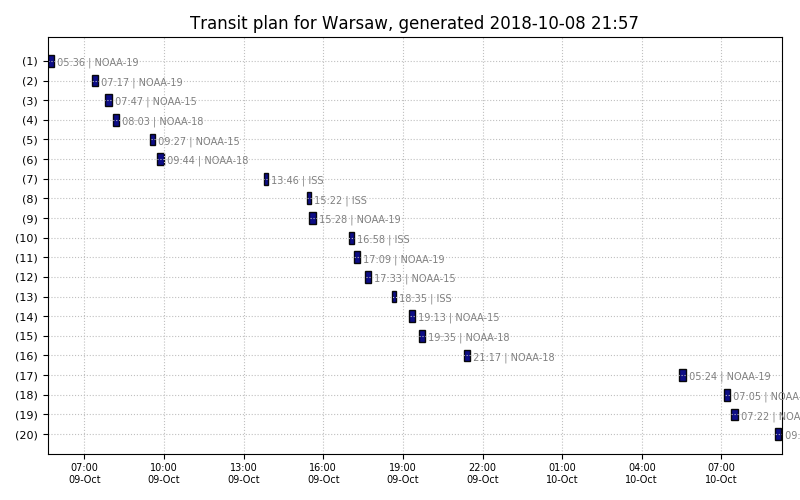
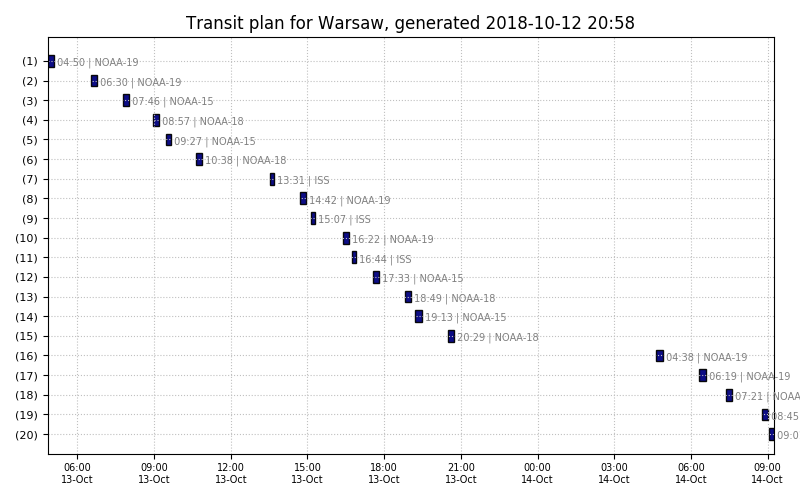
logging to file

diff --git a/var/nextpass.html b/var/nextpass.html
@@ -1,91 +1,92 @@
 <table>
 <tr><td>#</td><td>satellite</td><td>start</td><td>duration</td><td>peak</td><td>azimuth</td><td>freq</td><td>process with</td><tr>
-<tr><td>1</td><td>NOAA-19</td><td>2018-10-09 05:36</td><td>15:10</td><td>88°</td><td>288° (W←)</td><td>137100000Hz</td><td>modules/noaa/noaa.sh</td><tr>
-<tr><td>2</td><td>NOAA-19</td><td>2018-10-09 07:17</td><td>13:04</td><td>20°</td><td>308° (WNW←↖)</td><td>137100000Hz</td><td>modules/noaa/noaa.sh</td><tr>
-<tr><td>3</td><td>NOAA-15</td><td>2018-10-09 07:47</td><td>14:39</td><td>76°</td><td>104° (E→)</td><td>137620000Hz</td><td>modules/noaa/noaa.sh</td><tr>
-<tr><td>4</td><td>NOAA-18</td><td>2018-10-09 08:03</td><td>13:41</td><td>23°</td><td>91° (E→)</td><td>137912500Hz</td><td>modules/noaa/noaa.sh</td><tr>
-<tr><td>5</td><td>NOAA-15</td><td>2018-10-09 09:27</td><td>12:58</td><td>22°</td><td>304° (WNW←↖)</td><td>137620000Hz</td><td>modules/noaa/noaa.sh</td><tr>
-<tr><td>6</td><td>NOAA-18</td><td>2018-10-09 09:44</td><td>14:54</td><td>66°</td><td>291° (W←)</td><td>137912500Hz</td><td>modules/noaa/noaa.sh</td><tr>
-<tr><td>7</td><td>ISS</td><td>2018-10-09 13:46</td><td>09:15</td><td>21°</td><td>146° (SE↘)</td><td>143625000Hz</td><td>modules/iss/iss_voice.sh</td><tr>
-<tr><td>8</td><td>ISS</td><td>2018-10-09 15:22</td><td>10:03</td><td>61°</td><td>165° (SSE↓↘)</td><td>143625000Hz</td><td>modules/iss/iss_voice.sh</td><tr>
-<tr><td>9</td><td>NOAA-19</td><td>2018-10-09 15:28</td><td>14:47</td><td>55°</td><td>66° (NE↗)</td><td>137100000Hz</td><td>modules/noaa/noaa.sh</td><tr>
-<tr><td>10</td><td>ISS</td><td>2018-10-09 16:58</td><td>10:07</td><td>78°</td><td>185° (S↓)</td><td>143625000Hz</td><td>modules/iss/iss_voice.sh</td><tr>
-<tr><td>11</td><td>NOAA-19</td><td>2018-10-09 17:09</td><td>14:07</td><td>28°</td><td>266° (WSW←↙)</td><td>137100000Hz</td><td>modules/noaa/noaa.sh</td><tr>
-<tr><td>12</td><td>NOAA-15</td><td>2018-10-09 17:33</td><td>14:01</td><td>38°</td><td>62° (NE↗)</td><td>137620000Hz</td><td>modules/noaa/noaa.sh</td><tr>
-<tr><td>13</td><td>ISS</td><td>2018-10-09 18:35</td><td>09:48</td><td>36°</td><td>205° (SSW↓↙)</td><td>143625000Hz</td><td>modules/iss/iss_voice.sh</td><tr>
-<tr><td>14</td><td>NOAA-15</td><td>2018-10-09 19:13</td><td>14:17</td><td>40°</td><td>262° (WSW←↙)</td><td>137620000Hz</td><td>modules/noaa/noaa.sh</td><tr>
-<tr><td>15</td><td>NOAA-18</td><td>2018-10-09 19:35</td><td>15:06</td><td>74°</td><td>69° (ENE→↗)</td><td>137912500Hz</td><td>modules/noaa/noaa.sh</td><tr>
-<tr><td>16</td><td>NOAA-18</td><td>2018-10-09 21:17</td><td>13:36</td><td>21°</td><td>269° (WSW←↙)</td><td>137912500Hz</td><td>modules/noaa/noaa.sh</td><tr>
-<tr><td>17</td><td>NOAA-19</td><td>2018-10-10 05:24</td><td>15:11</td><td>77°</td><td>105° (E→)</td><td>137100000Hz</td><td>modules/noaa/noaa.sh</td><tr>
-<tr><td>18</td><td>NOAA-19</td><td>2018-10-10 07:05</td><td>13:29</td><td>23°</td><td>305° (WNW←↖)</td><td>137100000Hz</td><td>modules/noaa/noaa.sh</td><tr>
-<tr><td>19</td><td>NOAA-15</td><td>2018-10-10 07:22</td><td>14:28</td><td>49°</td><td>99° (E→)</td><td>137620000Hz</td><td>modules/noaa/noaa.sh</td><tr>
-<tr><td>20</td><td>NOAA-15</td><td>2018-10-10 09:02</td><td>13:44</td><td>32°</td><td>299° (WNW←↖)</td><td>137620000Hz</td><td>modules/noaa/noaa.sh</td><tr>
-<tr><td>21</td><td>NOAA-18</td><td>2018-10-10 09:32</td><td>15:00</td><td>80°</td><td>288° (W←)</td><td>137912500Hz</td><td>modules/noaa/noaa.sh</td><tr>
-<tr><td>22</td><td>ISS</td><td>2018-10-10 14:30</td><td>10:03</td><td>47°</td><td>159° (SSE↓↘)</td><td>143625000Hz</td><td>modules/iss/iss_voice.sh</td><tr>
-<tr><td>23</td><td>NOAA-19</td><td>2018-10-10 15:17</td><td>14:29</td><td>46°</td><td>63° (NE↗)</td><td>137100000Hz</td><td>modules/noaa/noaa.sh</td><tr>
-<tr><td>24</td><td>ISS</td><td>2018-10-10 16:07</td><td>10:08</td><td>81°</td><td>179° (SSE↓↘)</td><td>143625000Hz</td><td>modules/iss/iss_voice.sh</td><tr>
-<tr><td>25</td><td>NOAA-19</td><td>2018-10-10 16:58</td><td>14:26</td><td>34°</td><td>264° (WSW←↙)</td><td>137100000Hz</td><td>modules/noaa/noaa.sh</td><tr>
-<tr><td>26</td><td>NOAA-15</td><td>2018-10-10 17:09</td><td>13:23</td><td>26°</td><td>57° (NE↗)</td><td>137620000Hz</td><td>modules/noaa/noaa.sh</td><tr>
-<tr><td>27</td><td>ISS</td><td>2018-10-10 17:43</td><td>10:00</td><td>49°</td><td>199° (S↓)</td><td>143625000Hz</td><td>modules/iss/iss_voice.sh</td><tr>
-<tr><td>28</td><td>NOAA-15</td><td>2018-10-10 18:48</td><td>14:37</td><td>63°</td><td>257° (WSW←↙)</td><td>137620000Hz</td><td>modules/noaa/noaa.sh</td><tr>
-<tr><td>29</td><td>NOAA-18</td><td>2018-10-10 19:24</td><td>14:53</td><td>61°</td><td>67° (NE↗)</td><td>137912500Hz</td><td>modules/noaa/noaa.sh</td><tr>
-<tr><td>30</td><td>NOAA-18</td><td>2018-10-10 21:05</td><td>13:58</td><td>26°</td><td>267° (WSW←↙)</td><td>137912500Hz</td><td>modules/noaa/noaa.sh</td><tr>
-<tr><td>31</td><td>NOAA-19</td><td>2018-10-11 05:13</td><td>15:08</td><td>63°</td><td>103° (E→)</td><td>137100000Hz</td><td>modules/noaa/noaa.sh</td><tr>
-<tr><td>32</td><td>NOAA-19</td><td>2018-10-11 06:54</td><td>13:56</td><td>27°</td><td>303° (WNW←↖)</td><td>137100000Hz</td><td>modules/noaa/noaa.sh</td><tr>
-<tr><td>33</td><td>NOAA-15</td><td>2018-10-11 06:57</td><td>13:56</td><td>32°</td><td>94° (E→)</td><td>137620000Hz</td><td>modules/noaa/noaa.sh</td><tr>
-<tr><td>34</td><td>NOAA-15</td><td>2018-10-11 08:37</td><td>14:16</td><td>47°</td><td>294° (WNW←↖)</td><td>137620000Hz</td><td>modules/noaa/noaa.sh</td><tr>
-<tr><td>35</td><td>NOAA-18</td><td>2018-10-11 09:20</td><td>15:01</td><td>84°</td><td>106° (E→)</td><td>137912500Hz</td><td>modules/noaa/noaa.sh</td><tr>
-<tr><td>36</td><td>NOAA-18</td><td>2018-10-11 11:01</td><td>13:07</td><td>21°</td><td>307° (WNW←↖)</td><td>137912500Hz</td><td>modules/noaa/noaa.sh</td><tr>
-<tr><td>37</td><td>ISS</td><td>2018-10-11 13:38</td><td>09:46</td><td>34°</td><td>154° (SE↘)</td><td>143625000Hz</td><td>modules/iss/iss_voice.sh</td><tr>
-<tr><td>38</td><td>ISS</td><td>2018-10-11 15:15</td><td>10:07</td><td>77°</td><td>173° (SSE↓↘)</td><td>143625000Hz</td><td>modules/iss/iss_voice.sh</td><tr>
-<tr><td>39</td><td>ISS</td><td>2018-10-11 16:51</td><td>10:04</td><td>63°</td><td>193° (S↓)</td><td>143625000Hz</td><td>modules/iss/iss_voice.sh</td><tr>
-<tr><td>40</td><td>ISS</td><td>2018-10-11 18:28</td><td>09:18</td><td>22°</td><td>212° (SSW↓↙)</td><td>143625000Hz</td><td>modules/iss/iss_voice.sh</td><tr>
-<tr><td>41</td><td>NOAA-18</td><td>2018-10-11 19:12</td><td>14:48</td><td>50°</td><td>65° (NE↗)</td><td>137912500Hz</td><td>modules/noaa/noaa.sh</td><tr>
-<tr><td>42</td><td>NOAA-18</td><td>2018-10-11 20:53</td><td>14:24</td><td>31°</td><td>265° (WSW←↙)</td><td>137912500Hz</td><td>modules/noaa/noaa.sh</td><tr>
-<tr><td>43</td><td>NOAA-19</td><td>2018-10-12 05:01</td><td>15:02</td><td>52°</td><td>100° (E→)</td><td>137100000Hz</td><td>modules/noaa/noaa.sh</td><tr>
-<tr><td>44</td><td>NOAA-15</td><td>2018-10-12 06:32</td><td>13:06</td><td>21°</td><td>89° (ENE→↗)</td><td>137620000Hz</td><td>modules/noaa/noaa.sh</td><tr>
-<tr><td>45</td><td>NOAA-19</td><td>2018-10-12 06:42</td><td>14:13</td><td>32°</td><td>300° (WNW←↖)</td><td>137100000Hz</td><td>modules/noaa/noaa.sh</td><tr>
-<tr><td>46</td><td>NOAA-15</td><td>2018-10-12 08:12</td><td>14:34</td><td>72°</td><td>289° (W←)</td><td>137620000Hz</td><td>modules/noaa/noaa.sh</td><tr>
-<tr><td>47</td><td>NOAA-18</td><td>2018-10-12 09:09</td><td>15:00</td><td>70°</td><td>104° (E→)</td><td>137912500Hz</td><td>modules/noaa/noaa.sh</td><tr>
-<tr><td>48</td><td>NOAA-18</td><td>2018-10-12 10:50</td><td>13:31</td><td>25°</td><td>304° (WNW←↖)</td><td>137912500Hz</td><td>modules/noaa/noaa.sh</td><tr>
-<tr><td>49</td><td>ISS</td><td>2018-10-12 12:47</td><td>09:33</td><td>24°</td><td>148° (SE↘)</td><td>143625000Hz</td><td>modules/iss/iss_voice.sh</td><tr>
-<tr><td>50</td><td>ISS</td><td>2018-10-12 14:23</td><td>10:05</td><td>67°</td><td>167° (SSE↓↘)</td><td>143625000Hz</td><td>modules/iss/iss_voice.sh</td><tr>
-<tr><td>51</td><td>NOAA-19</td><td>2018-10-12 14:54</td><td>14:06</td><td>32°</td><td>59° (NE↗)</td><td>137100000Hz</td><td>modules/noaa/noaa.sh</td><tr>
-<tr><td>52</td><td>ISS</td><td>2018-10-12 15:59</td><td>10:06</td><td>75°</td><td>187° (S↓)</td><td>143625000Hz</td><td>modules/iss/iss_voice.sh</td><tr>
-<tr><td>53</td><td>NOAA-19</td><td>2018-10-12 16:34</td><td>14:53</td><td>51°</td><td>259° (WSW←↙)</td><td>137100000Hz</td><td>modules/noaa/noaa.sh</td><tr>
-<tr><td>54</td><td>ISS</td><td>2018-10-12 17:36</td><td>09:42</td><td>31°</td><td>207° (SSW↓↙)</td><td>143625000Hz</td><td>modules/iss/iss_voice.sh</td><tr>
-<tr><td>55</td><td>NOAA-15</td><td>2018-10-12 17:58</td><td>14:27</td><td>57°</td><td>67° (NE↗)</td><td>137620000Hz</td><td>modules/noaa/noaa.sh</td><tr>
-<tr><td>56</td><td>NOAA-18</td><td>2018-10-12 19:01</td><td>14:35</td><td>42°</td><td>62° (NE↗)</td><td>137912500Hz</td><td>modules/noaa/noaa.sh</td><tr>
-<tr><td>57</td><td>NOAA-15</td><td>2018-10-12 19:38</td><td>13:35</td><td>26°</td><td>267° (WSW←↙)</td><td>137620000Hz</td><td>modules/noaa/noaa.sh</td><tr>
-<tr><td>58</td><td>NOAA-18</td><td>2018-10-12 20:41</td><td>14:41</td><td>38°</td><td>262° (WSW←↙)</td><td>137912500Hz</td><td>modules/noaa/noaa.sh</td><tr>
-<tr><td>59</td><td>NOAA-19</td><td>2018-10-13 04:50</td><td>14:47</td><td>43°</td><td>98° (E→)</td><td>137100000Hz</td><td>modules/noaa/noaa.sh</td><tr>
-<tr><td>60</td><td>NOAA-19</td><td>2018-10-13 06:30</td><td>14:30</td><td>38°</td><td>298° (WNW←↖)</td><td>137100000Hz</td><td>modules/noaa/noaa.sh</td><tr>
-<tr><td>61</td><td>NOAA-15</td><td>2018-10-13 07:46</td><td>14:38</td><td>75°</td><td>104° (E→)</td><td>137620000Hz</td><td>modules/noaa/noaa.sh</td><tr>
-<tr><td>62</td><td>NOAA-18</td><td>2018-10-13 08:57</td><td>14:55</td><td>57°</td><td>101° (E→)</td><td>137912500Hz</td><td>modules/noaa/noaa.sh</td><tr>
-<tr><td>63</td><td>NOAA-15</td><td>2018-10-13 09:27</td><td>12:59</td><td>23°</td><td>304° (WNW←↖)</td><td>137620000Hz</td><td>modules/noaa/noaa.sh</td><tr>
-<tr><td>64</td><td>NOAA-18</td><td>2018-10-13 10:38</td><td>13:45</td><td>29°</td><td>302° (WNW←↖)</td><td>137912500Hz</td><td>modules/noaa/noaa.sh</td><tr>
-<tr><td>65</td><td>ISS</td><td>2018-10-13 13:31</td><td>10:00</td><td>53°</td><td>162° (SSE↓↘)</td><td>143625000Hz</td><td>modules/iss/iss_voice.sh</td><tr>
-<tr><td>66</td><td>NOAA-19</td><td>2018-10-13 14:42</td><td>13:52</td><td>27°</td><td>56° (NE↗)</td><td>137100000Hz</td><td>modules/noaa/noaa.sh</td><tr>
-<tr><td>67</td><td>ISS</td><td>2018-10-13 15:07</td><td>10:11</td><td>80°</td><td>181° (S↓)</td><td>143625000Hz</td><td>modules/iss/iss_voice.sh</td><tr>
-<tr><td>68</td><td>NOAA-19</td><td>2018-10-13 16:22</td><td>15:00</td><td>63°</td><td>257° (WSW←↙)</td><td>137100000Hz</td><td>modules/noaa/noaa.sh</td><tr>
-<tr><td>69</td><td>ISS</td><td>2018-10-13 16:44</td><td>09:55</td><td>43°</td><td>201° (S↓)</td><td>143625000Hz</td><td>modules/iss/iss_voice.sh</td><tr>
-<tr><td>70</td><td>NOAA-15</td><td>2018-10-13 17:33</td><td>14:01</td><td>38°</td><td>62° (NE↗)</td><td>137620000Hz</td><td>modules/noaa/noaa.sh</td><tr>
-<tr><td>71</td><td>NOAA-18</td><td>2018-10-13 18:49</td><td>14:19</td><td>35°</td><td>60° (NE↗)</td><td>137912500Hz</td><td>modules/noaa/noaa.sh</td><tr>
-<tr><td>72</td><td>NOAA-15</td><td>2018-10-13 19:13</td><td>14:18</td><td>41°</td><td>262° (WSW←↙)</td><td>137620000Hz</td><td>modules/noaa/noaa.sh</td><tr>
-<tr><td>73</td><td>NOAA-18</td><td>2018-10-13 20:29</td><td>14:53</td><td>47°</td><td>260° (WSW←↙)</td><td>137912500Hz</td><td>modules/noaa/noaa.sh</td><tr>
-<tr><td>74</td><td>NOAA-15</td><td>2018-10-14 07:21</td><td>14:26</td><td>48°</td><td>99° (E→)</td><td>137620000Hz</td><td>modules/noaa/noaa.sh</td><tr>
-<tr><td>75</td><td>NOAA-18</td><td>2018-10-14 08:45</td><td>14:47</td><td>47°</td><td>99° (E→)</td><td>137912500Hz</td><td>modules/noaa/noaa.sh</td><tr>
-<tr><td>76</td><td>NOAA-15</td><td>2018-10-14 09:01</td><td>13:44</td><td>32°</td><td>299° (WNW←↖)</td><td>137620000Hz</td><td>modules/noaa/noaa.sh</td><tr>
-<tr><td>77</td><td>NOAA-18</td><td>2018-10-14 10:26</td><td>14:11</td><td>35°</td><td>299° (WNW←↖)</td><td>137912500Hz</td><td>modules/noaa/noaa.sh</td><tr>
-<tr><td>78</td><td>ISS</td><td>2018-10-14 12:39</td><td>09:51</td><td>39°</td><td>156° (SE↘)</td><td>143625000Hz</td><td>modules/iss/iss_voice.sh</td><tr>
-<tr><td>79</td><td>ISS</td><td>2018-10-14 14:15</td><td>10:07</td><td>79°</td><td>175° (SSE↓↘)</td><td>143625000Hz</td><td>modules/iss/iss_voice.sh</td><tr>
-<tr><td>80</td><td>ISS</td><td>2018-10-14 15:52</td><td>10:02</td><td>57°</td><td>196° (S↓)</td><td>143625000Hz</td><td>modules/iss/iss_voice.sh</td><tr>
-<tr><td>81</td><td>ISS</td><td>2018-10-15 11:47</td><td>09:28</td><td>28°</td><td>150° (SE↘)</td><td>143625000Hz</td><td>modules/iss/iss_voice.sh</td><tr>
-<tr><td>82</td><td>ISS</td><td>2018-10-15 13:23</td><td>09:58</td><td>71°</td><td>170° (SSE↓↘)</td><td>143625000Hz</td><td>modules/iss/iss_voice.sh</td><tr>
-<tr><td>83</td><td>ISS</td><td>2018-10-15 15:00</td><td>10:02</td><td>71°</td><td>190° (S↓)</td><td>143625000Hz</td><td>modules/iss/iss_voice.sh</td><tr>
-<tr><td>84</td><td>ISS</td><td>2018-10-15 16:36</td><td>09:30</td><td>27°</td><td>209° (SSW↓↙)</td><td>143625000Hz</td><td>modules/iss/iss_voice.sh</td><tr>
-<tr><td>85</td><td>ISS</td><td>2018-10-16 12:32</td><td>10:02</td><td>58°</td><td>164° (SSE↓↘)</td><td>143625000Hz</td><td>modules/iss/iss_voice.sh</td><tr>
-<tr><td>86</td><td>ISS</td><td>2018-10-16 14:08</td><td>10:07</td><td>79°</td><td>184° (S↓)</td><td>143625000Hz</td><td>modules/iss/iss_voice.sh</td><tr>
-<tr><td>87</td><td>ISS</td><td>2018-10-16 15:44</td><td>09:51</td><td>38°</td><td>203° (SSW↓↙)</td><td>143625000Hz</td><td>modules/iss/iss_voice.sh</td><tr>
-<tr><td>88</td><td>ISS</td><td>2018-10-17 11:40</td><td>09:55</td><td>44°</td><td>158° (SSE↓↘)</td><td>143625000Hz</td><td>modules/iss/iss_voice.sh</td><tr>
+<tr><td>1</td><td>NOAA-19</td><td>2018-10-13 04:50</td><td>14:47</td><td>43°</td><td>98° (E→)</td><td>137100000Hz</td><td>modules/noaa/noaa.sh</td><tr>
+<tr><td>2</td><td>NOAA-19</td><td>2018-10-13 06:30</td><td>14:30</td><td>38°</td><td>298° (WNW←↖)</td><td>137100000Hz</td><td>modules/noaa/noaa.sh</td><tr>
+<tr><td>3</td><td>NOAA-15</td><td>2018-10-13 07:46</td><td>14:38</td><td>75°</td><td>104° (E→)</td><td>137620000Hz</td><td>modules/noaa/noaa.sh</td><tr>
+<tr><td>4</td><td>NOAA-18</td><td>2018-10-13 08:57</td><td>14:55</td><td>57°</td><td>101° (E→)</td><td>137912500Hz</td><td>modules/noaa/noaa.sh</td><tr>
+<tr><td>5</td><td>NOAA-15</td><td>2018-10-13 09:27</td><td>12:59</td><td>23°</td><td>304° (WNW←↖)</td><td>137620000Hz</td><td>modules/noaa/noaa.sh</td><tr>
+<tr><td>6</td><td>NOAA-18</td><td>2018-10-13 10:38</td><td>13:45</td><td>29°</td><td>302° (WNW←↖)</td><td>137912500Hz</td><td>modules/noaa/noaa.sh</td><tr>
+<tr><td>7</td><td>ISS</td><td>2018-10-13 13:31</td><td>10:00</td><td>53°</td><td>162° (SSE↓↘)</td><td>143625000Hz</td><td>modules/iss/iss_voice.sh</td><tr>
+<tr><td>8</td><td>NOAA-19</td><td>2018-10-13 14:42</td><td>13:52</td><td>27°</td><td>56° (NE↗)</td><td>137100000Hz</td><td>modules/noaa/noaa.sh</td><tr>
+<tr><td>9</td><td>ISS</td><td>2018-10-13 15:07</td><td>10:11</td><td>80°</td><td>181° (S↓)</td><td>143625000Hz</td><td>modules/iss/iss_voice.sh</td><tr>
+<tr><td>10</td><td>NOAA-19</td><td>2018-10-13 16:22</td><td>15:00</td><td>63°</td><td>257° (WSW←↙)</td><td>137100000Hz</td><td>modules/noaa/noaa.sh</td><tr>
+<tr><td>11</td><td>ISS</td><td>2018-10-13 16:44</td><td>09:55</td><td>43°</td><td>201° (S↓)</td><td>143625000Hz</td><td>modules/iss/iss_voice.sh</td><tr>
+<tr><td>12</td><td>NOAA-15</td><td>2018-10-13 17:33</td><td>14:01</td><td>38°</td><td>62° (NE↗)</td><td>137620000Hz</td><td>modules/noaa/noaa.sh</td><tr>
+<tr><td>13</td><td>NOAA-18</td><td>2018-10-13 18:49</td><td>14:19</td><td>35°</td><td>60° (NE↗)</td><td>137912500Hz</td><td>modules/noaa/noaa.sh</td><tr>
+<tr><td>14</td><td>NOAA-15</td><td>2018-10-13 19:13</td><td>14:18</td><td>41°</td><td>262° (WSW←↙)</td><td>137620000Hz</td><td>modules/noaa/noaa.sh</td><tr>
+<tr><td>15</td><td>NOAA-18</td><td>2018-10-13 20:29</td><td>14:53</td><td>47°</td><td>260° (WSW←↙)</td><td>137912500Hz</td><td>modules/noaa/noaa.sh</td><tr>
+<tr><td>16</td><td>NOAA-19</td><td>2018-10-14 04:38</td><td>14:37</td><td>35°</td><td>96° (E→)</td><td>137100000Hz</td><td>modules/noaa/noaa.sh</td><tr>
+<tr><td>17</td><td>NOAA-19</td><td>2018-10-14 06:19</td><td>14:45</td><td>46°</td><td>295° (WNW←↖)</td><td>137100000Hz</td><td>modules/noaa/noaa.sh</td><tr>
+<tr><td>18</td><td>NOAA-15</td><td>2018-10-14 07:21</td><td>14:26</td><td>48°</td><td>99° (E→)</td><td>137620000Hz</td><td>modules/noaa/noaa.sh</td><tr>
+<tr><td>19</td><td>NOAA-18</td><td>2018-10-14 08:45</td><td>14:47</td><td>47°</td><td>99° (E→)</td><td>137912500Hz</td><td>modules/noaa/noaa.sh</td><tr>
+<tr><td>20</td><td>NOAA-15</td><td>2018-10-14 09:01</td><td>13:44</td><td>32°</td><td>299° (WNW←↖)</td><td>137620000Hz</td><td>modules/noaa/noaa.sh</td><tr>
+<tr><td>21</td><td>NOAA-18</td><td>2018-10-14 10:26</td><td>14:11</td><td>35°</td><td>299° (WNW←↖)</td><td>137912500Hz</td><td>modules/noaa/noaa.sh</td><tr>
+<tr><td>22</td><td>ISS</td><td>2018-10-14 12:39</td><td>09:51</td><td>39°</td><td>156° (SE↘)</td><td>143625000Hz</td><td>modules/iss/iss_voice.sh</td><tr>
+<tr><td>23</td><td>ISS</td><td>2018-10-14 14:15</td><td>10:07</td><td>79°</td><td>175° (SSE↓↘)</td><td>143625000Hz</td><td>modules/iss/iss_voice.sh</td><tr>
+<tr><td>24</td><td>NOAA-19</td><td>2018-10-14 14:31</td><td>13:24</td><td>23°</td><td>54° (NE↗)</td><td>137100000Hz</td><td>modules/noaa/noaa.sh</td><tr>
+<tr><td>25</td><td>ISS</td><td>2018-10-14 15:52</td><td>10:02</td><td>57°</td><td>196° (S↓)</td><td>143625000Hz</td><td>modules/iss/iss_voice.sh</td><tr>
+<tr><td>26</td><td>NOAA-19</td><td>2018-10-14 16:11</td><td>15:04</td><td>76°</td><td>254° (WSW←↙)</td><td>137100000Hz</td><td>modules/noaa/noaa.sh</td><tr>
+<tr><td>27</td><td>NOAA-15</td><td>2018-10-14 17:09</td><td>13:22</td><td>26°</td><td>57° (NE↗)</td><td>137620000Hz</td><td>modules/noaa/noaa.sh</td><tr>
+<tr><td>28</td><td>NOAA-18</td><td>2018-10-14 18:38</td><td>14:00</td><td>30°</td><td>58° (NE↗)</td><td>137912500Hz</td><td>modules/noaa/noaa.sh</td><tr>
+<tr><td>29</td><td>NOAA-15</td><td>2018-10-14 18:47</td><td>14:38</td><td>63°</td><td>257° (WSW←↙)</td><td>137620000Hz</td><td>modules/noaa/noaa.sh</td><tr>
+<tr><td>30</td><td>NOAA-18</td><td>2018-10-14 20:18</td><td>15:02</td><td>57°</td><td>258° (WSW←↙)</td><td>137912500Hz</td><td>modules/noaa/noaa.sh</td><tr>
+<tr><td>31</td><td>NOAA-19</td><td>2018-10-15 04:26</td><td>14:19</td><td>29°</td><td>93° (E→)</td><td>137100000Hz</td><td>modules/noaa/noaa.sh</td><tr>
+<tr><td>32</td><td>NOAA-19</td><td>2018-10-15 06:07</td><td>14:57</td><td>55°</td><td>293° (WNW←↖)</td><td>137100000Hz</td><td>modules/noaa/noaa.sh</td><tr>
+<tr><td>33</td><td>NOAA-15</td><td>2018-10-15 06:57</td><td>13:55</td><td>31°</td><td>94° (E→)</td><td>137620000Hz</td><td>modules/noaa/noaa.sh</td><tr>
+<tr><td>34</td><td>NOAA-18</td><td>2018-10-15 08:34</td><td>14:33</td><td>38°</td><td>97° (E→)</td><td>137912500Hz</td><td>modules/noaa/noaa.sh</td><tr>
+<tr><td>35</td><td>NOAA-15</td><td>2018-10-15 08:36</td><td>14:16</td><td>48°</td><td>294° (WNW←↖)</td><td>137620000Hz</td><td>modules/noaa/noaa.sh</td><tr>
+<tr><td>36</td><td>NOAA-18</td><td>2018-10-15 10:14</td><td>14:27</td><td>41°</td><td>297° (WNW←↖)</td><td>137912500Hz</td><td>modules/noaa/noaa.sh</td><tr>
+<tr><td>37</td><td>ISS</td><td>2018-10-15 11:47</td><td>09:28</td><td>28°</td><td>150° (SE↘)</td><td>143625000Hz</td><td>modules/iss/iss_voice.sh</td><tr>
+<tr><td>38</td><td>ISS</td><td>2018-10-15 13:23</td><td>09:58</td><td>71°</td><td>170° (SSE↓↘)</td><td>143625000Hz</td><td>modules/iss/iss_voice.sh</td><tr>
+<tr><td>39</td><td>NOAA-19</td><td>2018-10-15 14:20</td><td>12:59</td><td>20°</td><td>51° (NE↗)</td><td>137100000Hz</td><td>modules/noaa/noaa.sh</td><tr>
+<tr><td>40</td><td>ISS</td><td>2018-10-15 15:00</td><td>10:02</td><td>71°</td><td>190° (S↓)</td><td>143625000Hz</td><td>modules/iss/iss_voice.sh</td><tr>
+<tr><td>41</td><td>NOAA-19</td><td>2018-10-15 15:59</td><td>15:04</td><td>88°</td><td>72° (ENE→↗)</td><td>137100000Hz</td><td>modules/noaa/noaa.sh</td><tr>
+<tr><td>42</td><td>ISS</td><td>2018-10-15 16:36</td><td>09:30</td><td>27°</td><td>209° (SSW↓↙)</td><td>143625000Hz</td><td>modules/iss/iss_voice.sh</td><tr>
+<tr><td>43</td><td>NOAA-15</td><td>2018-10-15 18:22</td><td>14:33</td><td>85°</td><td>72° (ENE→↗)</td><td>137620000Hz</td><td>modules/noaa/noaa.sh</td><tr>
+<tr><td>44</td><td>NOAA-18</td><td>2018-10-15 18:26</td><td>13:39</td><td>25°</td><td>55° (NE↗)</td><td>137912500Hz</td><td>modules/noaa/noaa.sh</td><tr>
+<tr><td>45</td><td>NOAA-18</td><td>2018-10-15 20:06</td><td>15:06</td><td>69°</td><td>255° (WSW←↙)</td><td>137912500Hz</td><td>modules/noaa/noaa.sh</td><tr>
+<tr><td>46</td><td>NOAA-19</td><td>2018-10-16 04:15</td><td>13:55</td><td>24°</td><td>91° (E→)</td><td>137100000Hz</td><td>modules/noaa/noaa.sh</td><tr>
+<tr><td>47</td><td>NOAA-19</td><td>2018-10-16 05:56</td><td>15:05</td><td>66°</td><td>291° (W←)</td><td>137100000Hz</td><td>modules/noaa/noaa.sh</td><tr>
+<tr><td>48</td><td>NOAA-15</td><td>2018-10-16 06:32</td><td>13:04</td><td>20°</td><td>89° (ENE→↗)</td><td>137620000Hz</td><td>modules/noaa/noaa.sh</td><tr>
+<tr><td>49</td><td>NOAA-15</td><td>2018-10-16 08:11</td><td>14:37</td><td>73°</td><td>289° (W←)</td><td>137620000Hz</td><td>modules/noaa/noaa.sh</td><tr>
+<tr><td>50</td><td>NOAA-18</td><td>2018-10-16 08:22</td><td>14:16</td><td>31°</td><td>94° (E→)</td><td>137912500Hz</td><td>modules/noaa/noaa.sh</td><tr>
+<tr><td>51</td><td>NOAA-18</td><td>2018-10-16 10:03</td><td>14:40</td><td>50°</td><td>294° (WNW←↖)</td><td>137912500Hz</td><td>modules/noaa/noaa.sh</td><tr>
+<tr><td>52</td><td>ISS</td><td>2018-10-16 12:32</td><td>10:02</td><td>58°</td><td>164° (SSE↓↘)</td><td>143625000Hz</td><td>modules/iss/iss_voice.sh</td><tr>
+<tr><td>53</td><td>ISS</td><td>2018-10-16 14:08</td><td>10:07</td><td>79°</td><td>184° (S↓)</td><td>143625000Hz</td><td>modules/iss/iss_voice.sh</td><tr>
+<tr><td>54</td><td>ISS</td><td>2018-10-16 15:44</td><td>09:51</td><td>38°</td><td>203° (SSW↓↙)</td><td>143625000Hz</td><td>modules/iss/iss_voice.sh</td><tr>
+<tr><td>55</td><td>NOAA-19</td><td>2018-10-16 17:29</td><td>13:28</td><td>21°</td><td>270° (W←)</td><td>137100000Hz</td><td>modules/noaa/noaa.sh</td><tr>
+<tr><td>56</td><td>NOAA-15</td><td>2018-10-16 17:58</td><td>14:27</td><td>56°</td><td>67° (NE↗)</td><td>137620000Hz</td><td>modules/noaa/noaa.sh</td><tr>
+<tr><td>57</td><td>NOAA-18</td><td>2018-10-16 18:15</td><td>13:13</td><td>22°</td><td>53° (NE↗)</td><td>137912500Hz</td><td>modules/noaa/noaa.sh</td><tr>
+<tr><td>58</td><td>NOAA-15</td><td>2018-10-16 19:38</td><td>13:35</td><td>27°</td><td>267° (WSW←↙)</td><td>137620000Hz</td><td>modules/noaa/noaa.sh</td><tr>
+<tr><td>59</td><td>NOAA-18</td><td>2018-10-16 19:54</td><td>15:09</td><td>84°</td><td>253° (WSW←↙)</td><td>137912500Hz</td><td>modules/noaa/noaa.sh</td><tr>
+<tr><td>60</td><td>NOAA-19</td><td>2018-10-17 04:03</td><td>13:26</td><td>20°</td><td>89° (ENE→↗)</td><td>137100000Hz</td><td>modules/noaa/noaa.sh</td><tr>
+<tr><td>61</td><td>NOAA-19</td><td>2018-10-17 05:44</td><td>15:11</td><td>80°</td><td>288° (W←)</td><td>137100000Hz</td><td>modules/noaa/noaa.sh</td><tr>
+<tr><td>62</td><td>NOAA-15</td><td>2018-10-17 07:46</td><td>14:37</td><td>74°</td><td>104° (E→)</td><td>137620000Hz</td><td>modules/noaa/noaa.sh</td><tr>
+<tr><td>63</td><td>NOAA-18</td><td>2018-10-17 08:10</td><td>13:53</td><td>26°</td><td>92° (E→)</td><td>137912500Hz</td><td>modules/noaa/noaa.sh</td><tr>
+<tr><td>64</td><td>NOAA-15</td><td>2018-10-17 09:26</td><td>12:59</td><td>23°</td><td>304° (WNW←↖)</td><td>137620000Hz</td><td>modules/noaa/noaa.sh</td><tr>
+<tr><td>65</td><td>NOAA-18</td><td>2018-10-17 09:51</td><td>14:53</td><td>60°</td><td>292° (W←)</td><td>137912500Hz</td><td>modules/noaa/noaa.sh</td><tr>
+<tr><td>66</td><td>ISS</td><td>2018-10-17 11:40</td><td>09:55</td><td>44°</td><td>158° (SSE↓↘)</td><td>143625000Hz</td><td>modules/iss/iss_voice.sh</td><tr>
+<tr><td>67</td><td>ISS</td><td>2018-10-17 13:16</td><td>10:10</td><td>80°</td><td>178° (SSE↓↘)</td><td>143625000Hz</td><td>modules/iss/iss_voice.sh</td><tr>
+<tr><td>68</td><td>ISS</td><td>2018-10-17 14:52</td><td>09:53</td><td>52°</td><td>198° (S↓)</td><td>143625000Hz</td><td>modules/iss/iss_voice.sh</td><tr>
+<tr><td>69</td><td>NOAA-19</td><td>2018-10-17 15:36</td><td>14:47</td><td>61°</td><td>67° (NE↗)</td><td>137100000Hz</td><td>modules/noaa/noaa.sh</td><tr>
+<tr><td>70</td><td>NOAA-19</td><td>2018-10-17 17:17</td><td>13:55</td><td>25°</td><td>267° (WSW←↙)</td><td>137100000Hz</td><td>modules/noaa/noaa.sh</td><tr>
+<tr><td>71</td><td>NOAA-15</td><td>2018-10-17 17:33</td><td>14:00</td><td>37°</td><td>62° (NE↗)</td><td>137620000Hz</td><td>modules/noaa/noaa.sh</td><tr>
+<tr><td>72</td><td>NOAA-15</td><td>2018-10-17 19:12</td><td>14:19</td><td>41°</td><td>262° (WSW←↙)</td><td>137620000Hz</td><td>modules/noaa/noaa.sh</td><tr>
+<tr><td>73</td><td>NOAA-18</td><td>2018-10-17 19:42</td><td>15:05</td><td>81°</td><td>71° (ENE→↗)</td><td>137912500Hz</td><td>modules/noaa/noaa.sh</td><tr>
+<tr><td>74</td><td>NOAA-19</td><td>2018-10-18 05:32</td><td>15:13</td><td>85°</td><td>106° (E→)</td><td>137100000Hz</td><td>modules/noaa/noaa.sh</td><tr>
+<tr><td>75</td><td>NOAA-19</td><td>2018-10-18 07:13</td><td>13:18</td><td>21°</td><td>307° (WNW←↖)</td><td>137100000Hz</td><td>modules/noaa/noaa.sh</td><tr>
+<tr><td>76</td><td>NOAA-15</td><td>2018-10-18 07:21</td><td>14:25</td><td>48°</td><td>99° (E→)</td><td>137620000Hz</td><td>modules/noaa/noaa.sh</td><tr>
+<tr><td>77</td><td>NOAA-15</td><td>2018-10-18 09:01</td><td>13:44</td><td>33°</td><td>299° (WNW←↖)</td><td>137620000Hz</td><td>modules/noaa/noaa.sh</td><tr>
+<tr><td>78</td><td>ISS</td><td>2018-10-18 10:48</td><td>09:42</td><td>32°</td><td>153° (SE↘)</td><td>143625000Hz</td><td>modules/iss/iss_voice.sh</td><tr>
+<tr><td>79</td><td>ISS</td><td>2018-10-18 12:24</td><td>10:06</td><td>75°</td><td>172° (SSE↓↘)</td><td>143625000Hz</td><td>modules/iss/iss_voice.sh</td><tr>
+<tr><td>80</td><td>ISS</td><td>2018-10-18 14:00</td><td>10:05</td><td>66°</td><td>192° (S↓)</td><td>143625000Hz</td><td>modules/iss/iss_voice.sh</td><tr>
+<tr><td>81</td><td>ISS</td><td>2018-10-18 15:37</td><td>09:25</td><td>23°</td><td>211° (SSW↓↙)</td><td>143625000Hz</td><td>modules/iss/iss_voice.sh</td><tr>
+<tr><td>82</td><td>ISS</td><td>2018-10-19 09:56</td><td>09:20</td><td>22°</td><td>147° (SE↘)</td><td>143625000Hz</td><td>modules/iss/iss_voice.sh</td><tr>
+<tr><td>83</td><td>ISS</td><td>2018-10-19 11:32</td><td>10:03</td><td>64°</td><td>166° (SSE↓↘)</td><td>143625000Hz</td><td>modules/iss/iss_voice.sh</td><tr>
+<tr><td>84</td><td>ISS</td><td>2018-10-19 13:09</td><td>10:06</td><td>76°</td><td>186° (S↓)</td><td>143625000Hz</td><td>modules/iss/iss_voice.sh</td><tr>
+<tr><td>85</td><td>ISS</td><td>2018-10-19 14:45</td><td>09:46</td><td>33°</td><td>206° (SSW↓↙)</td><td>143625000Hz</td><td>modules/iss/iss_voice.sh</td><tr>
+<tr><td>86</td><td>ISS</td><td>2018-10-20 10:40</td><td>09:57</td><td>50°</td><td>160° (SSE↓↘)</td><td>143625000Hz</td><td>modules/iss/iss_voice.sh</td><tr>
+<tr><td>87</td><td>ISS</td><td>2018-10-20 12:17</td><td>10:08</td><td>81°</td><td>180° (S↓)</td><td>143625000Hz</td><td>modules/iss/iss_voice.sh</td><tr>
+<tr><td>88</td><td>ISS</td><td>2018-10-20 13:53</td><td>09:57</td><td>46°</td><td>200° (S↓)</td><td>143625000Hz</td><td>modules/iss/iss_voice.sh</td><tr>
+<tr><td>89</td><td>ISS</td><td>2018-10-21 09:49</td><td>09:47</td><td>36°</td><td>155° (SE↘)</td><td>143625000Hz</td><td>modules/iss/iss_voice.sh</td><tr>
 </table>

diff --git a/autowx2.py b/autowx2.py
@@ -14,6 +14,7 @@ import subprocess
 import os
 from _crontab import *
 from tendo import singleton  # avoid two instancess
+import re
 
 from autowx2_conf import *  # configuration
 
@@ -277,9 +278,33 @@ def azimuth2dir(azimuth):
     part = int(float(azimuth) / 360 * 16)
     return dirs[part]
 
+def escape_ansi(line):
+    '''remove anssi colors from the given string'''
+    ansi_escape = re.compile(r'(\x9B|\x1B\[)[0-?]*[ -/]*[@-~]')
+    return ansi_escape.sub('', line)
+
 
 def log(string, style=bc.CYAN):
-    print bc.BOLD + datetime.fromtimestamp(time.time()).strftime('%Y-%m-%d %H:%M'), bc.ENDC, style, str(string), bc.ENDC
+    message = "%s%s%s %s %s %s " % (bc.BOLD, datetime.fromtimestamp(time.time()).strftime('%Y-%m-%d %H:%M'), bc.ENDC, style, str(string), bc.ENDC)    
+    print message
+    
+    # logging to file, if not Flase
+    if logging:
+        logToFile(escape_ansi(message) + "\n", logging)
+
+
+def logToFile(message, logDir):
+    # save message to the file
+    mkdir_p(logDir)
+    outfile = "%s/%s.txt" % ( logDir, datetime.fromtimestamp(time.time()).strftime('%Y-%m-%d') )
+
+    file_append(outfile, message)
+    
+
+def file_append(filename, content):
+  f = open( filename, 'a' )
+  f.write(content)
+  f.close()    
 
 
 # ------------------------------------------------------------------------------------------------------ #
@@ -338,7 +363,7 @@ if __name__ == "__main__":
 
             if towait > 300:
                     log("Recalibrating the dongle...")
-                    dongleShift = calibrate()  # replace the global value
+                    dongleShift = calibrate(dongleShift)  # replace the global value
 
             towait = int(start - time.time())
 

diff --git a/autowx2_conf.py b/autowx2_conf.py
@@ -116,6 +116,12 @@ scriptToRunInFreeTime = baseDir + "bin/aprs.sh" 	# APRS monitor
 # pymultimonaprs must be installed, see: https://github.com/asdil12/pymultimonaprs/
 #scriptToRunInFreeTime = baseDir + "bin/dump1090.sh"
 
+
+### Logging to file (enter the path) or False to disable
+# logging = False
+logging = recordingDir + "/logs/"
+
+
 # Dongle PPM shift, hopefully this will change to reflect different PPM on freq
 dongleShift = '0'
 
